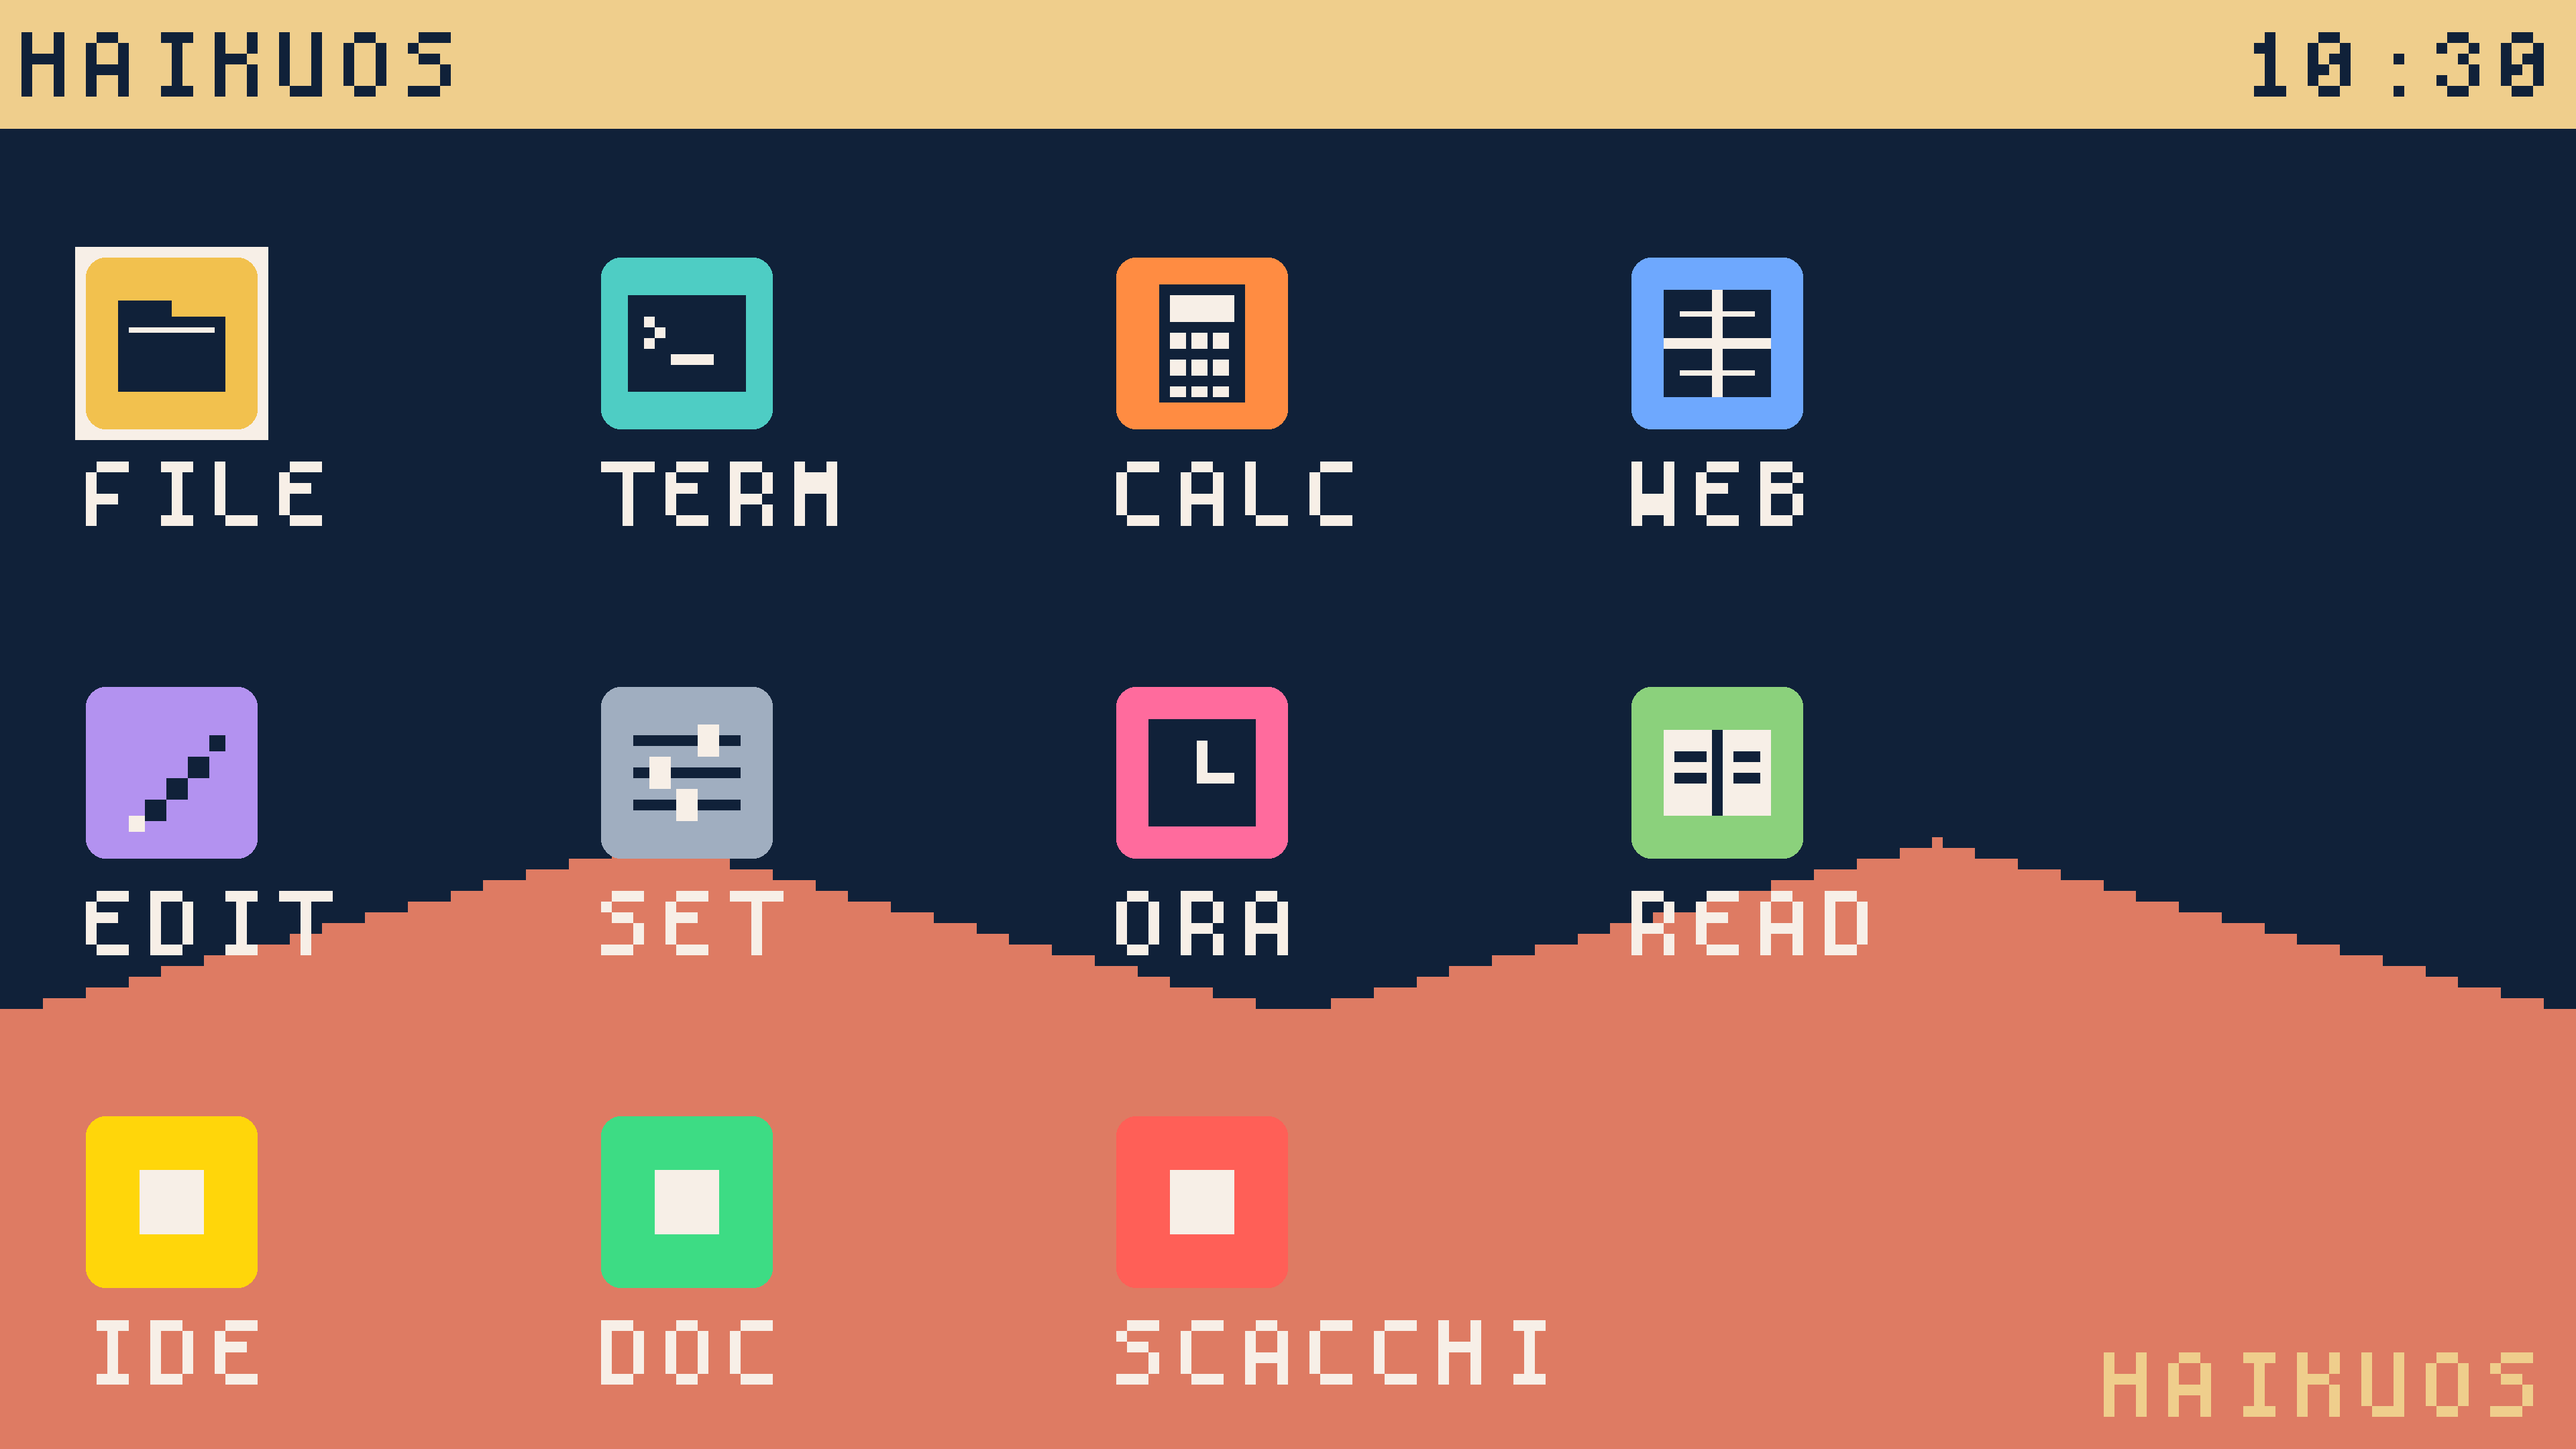
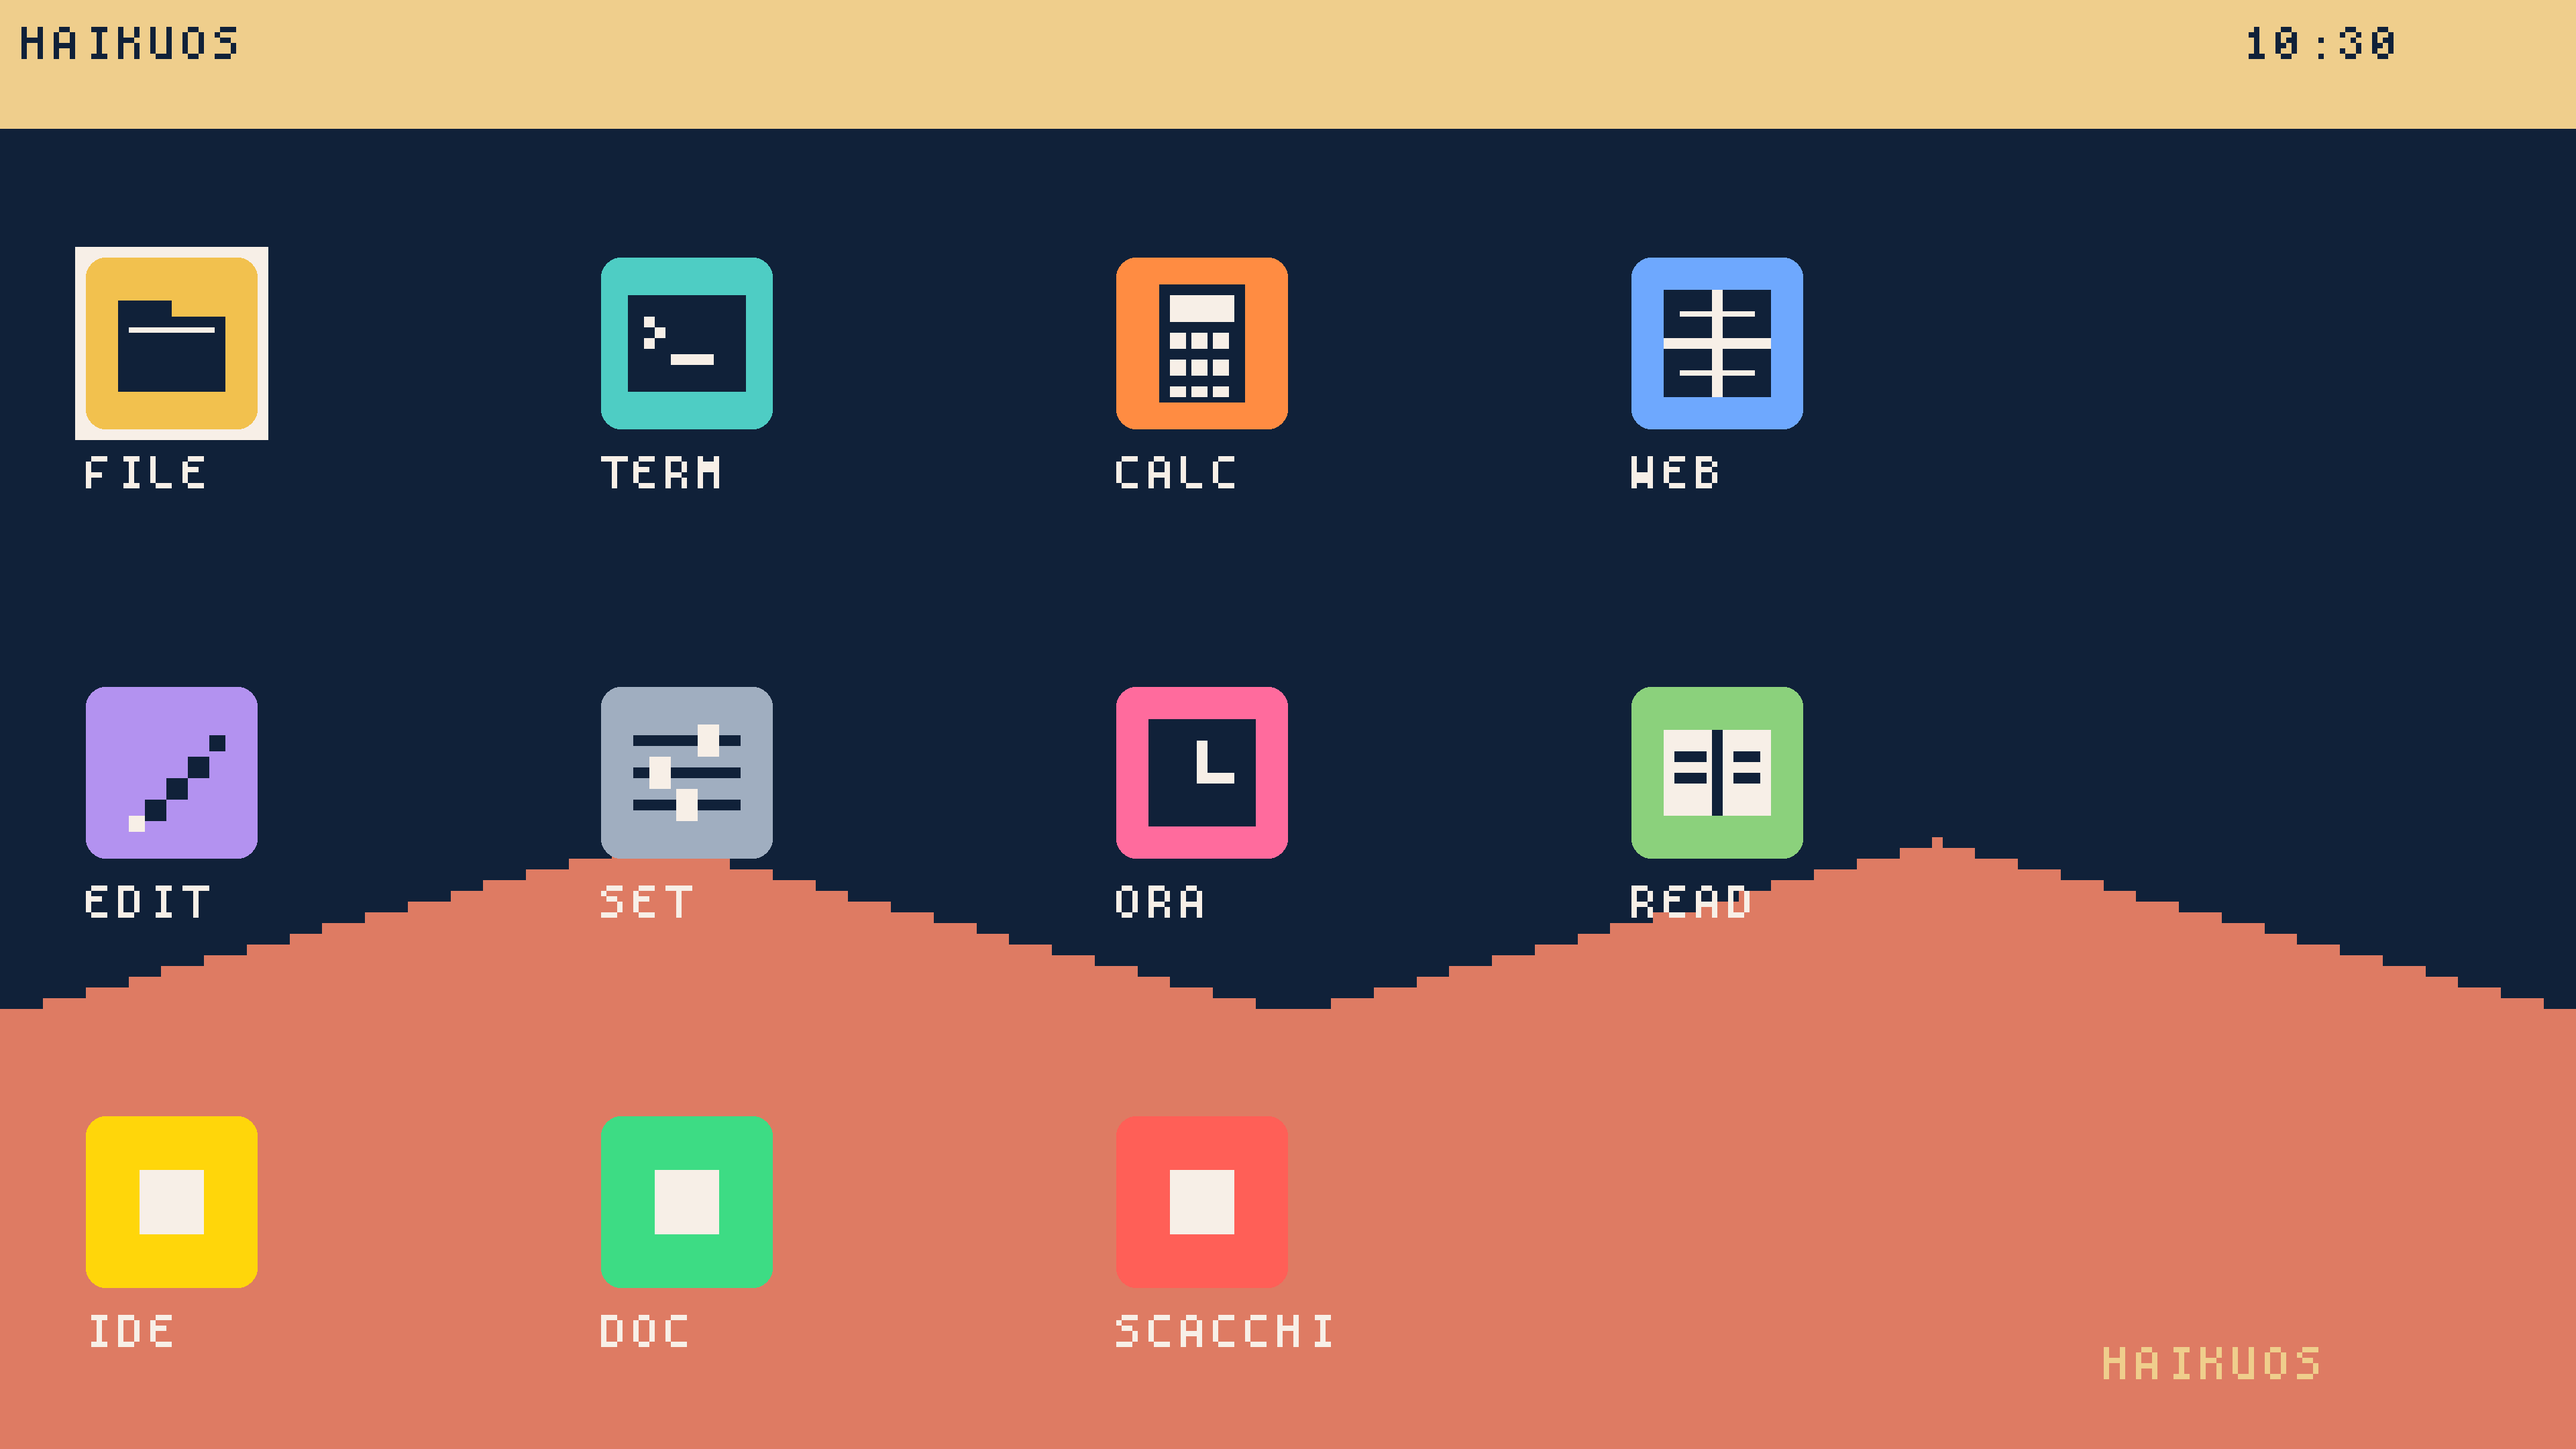
Animate desktop windows and launcher, vector text (#284)
- render: draw_motion with Motion { win_dy, sel }; draw stays still (GBA).
- desktop_vector: window open/close via Reactive, launcher selection glides.
- Vector canvas: text through vfont with real alpha blending.
- Screens: anim open/close/launch frames at 1920x1080 and 3840x2160.

Claude-Session: https://claude.ai/code/session_01AVhvvM8g9g7JB56RRU2TTt

diff --git a/gui/examples/desktop_vector.rs b/gui/examples/desktop_vector.rs
@@ -1,23 +1,30 @@
-//! Scrivania reale disegnata da `render::draw` su un `Canvas` a piena risoluzione.
-//! Stesso percorso dell'x86 (`Scaled` in x86/kernel/src/fb.rs): unità logiche 240×135,
-//! scala intera (16 a 3840×2160, 8 a 1920×1080). Plate delle icone via `rect_rounded`.
-//! Uso: cargo run --release --features wide-font --example desktop_vector -- 3840 2160 out.ppm [permille]
-//! Con `permille` (0..=1000) disegna un frame della transizione `Slide` tra scrivania e calcolatrice.
+//! Scrivania reale disegnata da `render::draw_motion` su un `Canvas` a piena risoluzione.
+//! Unità logiche 240×135, scala intera (16 a 3840×2160, 8 a 1920×1080). Testo vettoriale (`vfont`)
+//! con antialiasing reale. Animazioni (`anim`): apertura/chiusura finestra e selettore reattivo.
+//! Uso: cargo run --release --features wide-font --example desktop_vector -- W H out.ppm [modo] [icona]
+//!   modo: (assente) scrivania ferma | app=N finestra a schermo intero | open=MS | close=MS | launch=MS
+//!   open=MS   calcolatrice che sale a MS millisecondi; close=MS la fa scendere (chiusura)
+//!   launch=MS selettore che scorre dall'icona FILE alla CALC
+//!   icona: indice dell'icona da aprire prima del frame (screenshot delle app)
 //! Poi il PPM diventa PNG: `python3 -c "from PIL import Image; Image.open('out.ppm').save('out.png')"`.
 #![allow(dead_code)]
-#[path = "../../x86/kernel/src/font.rs"]
-mod font;
-
-use haiku_gui::anim::{Budget, Shifted, Slide, FRAME_US};
+use haiku_gui::anim::{Budget, Ease, Reactive, FRAME_US};
 use haiku_gui::icons;
 use haiku_gui::input::Key;
-use haiku_gui::layout::Rect;
-use haiku_gui::render::{draw, Canvas};
-use haiku_gui::{Icon, Shell, Tok};
+use haiku_gui::layout::{icon_cell, Rect};
+use haiku_gui::render::{draw, draw_motion, Canvas, Motion, STILL};
+use haiku_gui::{vfont, Icon, Shell, Tok};
 use std::io::Write;
 
 const LW: i32 = 240;
 const LH: i32 = 135;
+/// Spostamento iniziale della finestra in apertura/chiusura, px logici.
+const WIN_DY: i32 = 40;
+const OPEN_MS: u32 = 250;
+const CLOSE_MS: u32 = 200;
+const GLIDE_MS: u32 = 200;
+/// Dimensione del testo vettoriale in px logici: avanzata di 6 px per carattere, come il font di sistema.
+const TEXT_EM: i32 = 8;
 
 static ICONS: [Icon; 11] = [
     Icon { label: "FILE", app: 1, title: "FILE", w: 120, h: 80 },
@@ -50,6 +57,31 @@ impl Vector {
                 self.buf[row + x as usize] = c;
             }
         }
+    }
+
+    /// Mescola il colore `c` sul pixel fisico (x, y) con copertura `a` (0..=255).
+    fn mix(&mut self, x: i32, y: i32, a: u8, c: u32) {
+        if x < 0 || y < 0 || x >= self.pw || y >= self.ph {
+            return;
+        }
+        let p = &mut self.buf[(y * self.pw + x) as usize];
+        let (old, k) = (*p, a as u32);
+        let ch = |sh: u32| {
+            let (bg, fg) = ((old >> sh) & 255, (c >> sh) & 255);
+            (bg * (255 - k) + fg * k + 127) / 255
+        };
+        *p = (ch(16) << 16) | (ch(8) << 8) | ch(0);
+    }
+}
+
+/// Vista in pixel fisici per `vfont`: `blend` riceve coordinate fisiche e la copertura reale.
+struct Px<'a>(&'a mut Vector);
+
+impl Canvas for Px<'_> {
+    fn fill(&mut self, _: Rect, _: Tok) {}
+    fn text(&mut self, _: i32, _: i32, _: &str, _: Tok) {}
+    fn blend(&mut self, x: i32, y: i32, a: u8, t: Tok) {
+        self.0.mix(x, y, a, t.rgb());
     }
 }
 
@@ -105,20 +137,14 @@ impl Canvas for Vector {
         }
     }
 
-    /// Testo: font 5×8 (x86), ogni punto logico diventa un quadrato `s`×`s`.
+    /// Testo: `vfont` con antialiasing, in pixel fisici. Il font di sistema resta quello del GBA.
     fn text(&mut self, x: i32, y: i32, text: &str, t: Tok) {
-        let (s, c) = (self.s, t.rgb());
-        for (i, &ch) in text.as_bytes().iter().enumerate() {
-            for (row, bits) in font::glyph(ch).iter().enumerate() {
-                for col in 0..font::GLYPH_W {
-                    if bits & (1 << (font::GLYPH_W - 1 - col)) != 0 {
-                        let px = x + (i * font::ADVANCE + col) as i32;
-                        let py = y + row as i32;
-                        self.span(px * s, py * s, px * s + s, py * s + s, c);
-                    }
-                }
-            }
-        }
+        self.vtext(x, y, TEXT_EM, text, t);
+    }
+
+    fn vtext(&mut self, x: i32, y: i32, size: i32, text: &str, t: Tok) -> i32 {
+        let k = self.s;
+        vfont::draw_text(&mut Px(self), x * k, y * k, size * k, text, t) / k
     }
 }
 
@@ -153,25 +179,51 @@ fn main() {
         println!("app {n} -> {out}");
         return;
     }
-    match a.get(4).and_then(|p| p.parse::<u32>().ok()) {
-        Some(p) => {
-            // Transizione: scrivania (vecchia) scivola via, calcolatrice (nuova) entra da destra.
-            let mut next = Shell::new(&ICONS, LW, LH);
-            next.set_clock(10, 30);
-            next.wm.open(3, "CALCOLATRICE", 80, 60, LW, LH);
-            let (ox, nx) = Slide::start(LW, 0, 1000).offsets(p);
-            // Budget di frame: 30 render misurati, µs per frame (target 60 Hz).
-            let mut bud = Budget::new(FRAME_US);
-            for _ in 0..30 {
-                let t0 = std::time::Instant::now();
-                draw(&mut Shifted { inner: &mut v, dx: ox, dy: 0 }, &shell);
-                draw(&mut Shifted { inner: &mut v, dx: nx, dy: 0 }, &next);
-                bud.record(t0.elapsed().as_micros() as u32);
+
+    // Movimento: "open=MS", "close=MS" o "launch=MS", a MS millisecondi dall'inizio.
+    let arg = a.get(4).map(String::as_str).unwrap_or("");
+    let (mode, ms) = match arg.split_once('=') {
+        Some((m, t)) => (m, t.parse::<u32>().ok()),
+        None => ("", None),
+    };
+    let mut dy = [0i32];
+    let mut sel = None;
+    if let Some(ms) = ms {
+        match mode {
+            "close" => {
+                shell.wm.open(3, "CALCOLATRICE", 80, 60, LW, LH);
+                let mut r = Reactive::new(0);
+                r.set(WIN_DY, 0, CLOSE_MS, Ease::InQuad);
+                dy[0] = r.get(ms);
             }
-            println!("frame: media {} µs, max {} µs, oltre 16667 µs: {}/{}", bud.avg_us(), bud.max_us, bud.over, bud.frames);
+            "launch" => {
+                // Il selettore scivola dall'icona FILE (0) alla CALC (2), senza salti.
+                shell.sel = 2;
+                let (from, to) = (icon_cell(0), icon_cell(2));
+                let (mut x, mut y) = (Reactive::new(from.x), Reactive::new(from.y));
+                x.set(to.x, 0, GLIDE_MS, Ease::OutCubic);
+                y.set(to.y, 0, GLIDE_MS, Ease::OutCubic);
+                sel = Some(Rect::new(x.get(ms), y.get(ms), to.w, to.h));
+            }
+            "open" => {
+                shell.wm.open(3, "CALCOLATRICE", 80, 60, LW, LH);
+                let mut r = Reactive::new(WIN_DY);
+                r.set(0, 0, OPEN_MS, Ease::OutCubic);
+                dy[0] = r.get(ms);
+            }
+            _ => {}
         }
-        None => draw(&mut v, &shell),
     }
+    let m = if ms.is_some() { Motion { win_dy: &dy, sel } } else { STILL };
+
+    // Budget di frame: 30 render misurati, µs per frame (target 60 Hz).
+    let mut bud = Budget::new(FRAME_US);
+    for _ in 0..30 {
+        let t0 = std::time::Instant::now();
+        draw_motion(&mut v, &shell, &m);
+        bud.record(t0.elapsed().as_micros() as u32);
+    }
+    println!("frame: media {} µs, max {} µs, oltre 16667 µs: {}/{}", bud.avg_us(), bud.max_us, bud.over, bud.frames);
 
     let mut f = std::io::BufWriter::new(std::fs::File::create(out).expect("file"));
     write!(f, "P6\n{w} {h}\n255\n").unwrap();

diff --git a/gui/src/render.rs b/gui/src/render.rs
@@ -431,7 +431,23 @@ fn corners<C: Canvas>(c: &mut C, r: Rect) {
     }
 }
 
+/// Movimento di un frame: `win_dy[i]` sposta in basso la finestra `i` (px logici);
+/// `sel` è il selettore in volo fra due icone (scorrimento reattivo).
+#[derive(Clone, Copy)]
+pub struct Motion<'a> {
+    pub win_dy: &'a [i32],
+    pub sel: Option<Rect>,
+}
+
+/// Nessun movimento: la scrivania ferma (GBA e test).
+pub const STILL: Motion<'static> = Motion { win_dy: &[], sel: None };
+
 pub fn draw<C: Canvas>(c: &mut C, s: &Shell) {
+    draw_motion(c, s, &STILL);
+}
+
+/// Come `draw`, con finestre e selettore spostati da `m` (apertura, chiusura, scorrimento).
+pub fn draw_motion<C: Canvas>(c: &mut C, s: &Shell, m: &Motion<'_>) {
     c.fill(Rect::new(0, 0, s.w, s.h), T0);
     hills(c, s.w, s.h);
     // Sfondo: marchio "HAIKUOS" in basso a destra, in T3 sopra le colline.
@@ -457,6 +473,10 @@ pub fn draw<C: Canvas>(c: &mut C, s: &Shell) {
         }
     }
     c.text(clock_x(s.w), ty, core::str::from_utf8(&s.clock).unwrap_or(""), T0);
+    // Selettore in volo: sotto le icone, così il contorno resta leggibile durante lo scorrimento.
+    if let (Some(r), true) = (m.sel, c.rich()) {
+        c.fill(r.inset(-1), T1);
+    }
 
     // Icone: quadrato T2, selezionata T1, aperta con sottolineatura T2.
     let (start, count) = s.visible();
@@ -465,7 +485,7 @@ pub fn draw<C: Canvas>(c: &mut C, s: &Shell) {
         let ic = &s.icons[i];
         let cell = icon_cell(k);
         if c.rich() {
-            if i == s.sel {
+            if i == s.sel && m.sel.is_none() {
                 c.fill(cell.inset(-1), T1);
             }
             c.icon(cell, ic.label, ic.app);
@@ -492,7 +512,8 @@ pub fn draw<C: Canvas>(c: &mut C, s: &Shell) {
         if w.min {
             continue;
         }
-        let f = w.frame;
+        let dy = m.win_dy.get(i).copied().unwrap_or(0);
+        let f = Rect::new(w.frame.x, w.frame.y + dy, w.frame.w, w.frame.h);
         shadow(c, f);
         c.fill(f, T3);
         let tb = title_bar(f);

diff --git a/docs/vector-render-api.md b/docs/vector-render-api.md
@@ -57,7 +57,7 @@ fn draw_score<C: Canvas>(c: &mut C, r: Rect, score: u32, t: Tok) {
 cd gui && cargo run --release --features wide-font --example desktop_vector -- 3840 2160 out.ppm
 ```
 
-Output committati: `design/screens/desktop_vector_*.png`. Limiti: il testo è il font 5×8 scalato a blocchi, e lo sfondo usa ancora le colline (`hills`), non il wallpaper bitmap di `design/wallpapers/`.
+Output committati: `design/screens/desktop_vector_*.png`. Limiti: i contorni del testo sono ancora il 5×8 vettorizzato, e lo sfondo usa ancora le colline (`hills`), non il wallpaper bitmap di `design/wallpapers/`.
 
 ## 7. Font vettoriale con antialiasing
 
@@ -96,4 +96,10 @@ Tutto a interi (ms, permille, µs), no_std, senza allocazione nel frame.
 | `Shifted<C>` | vista di un `Canvas` spostata di `(dx, dy)`: si disegna una schermata come sempre |
 | `Budget` | registra µs per frame, conta gli sforamenti di `FRAME_US` (16 667 µs = 60 Hz) |
 
-Demo: `cargo run --release --features wide-font --example desktop_vector -- 1920 1080 out.ppm 500` disegna il frame a metà transizione e stampa il budget. Output: `design/screens/anim_transition_1920x1080.png`.
+Scrivania animata (`render::draw_motion` con `Motion { win_dy, sel }`; `draw` resta fermo per GBA):
+
+```sh
+cd gui && cargo run --release --features wide-font --example desktop_vector -- 1920 1080 out.ppm 120 open
+```
+
+Modi: `open=MS` / `close=MS` (calcolatrice che sale/scende, `Reactive` 250/200 ms), `launch=MS` (selettore che scorre da FILE a CALC, 200 ms). Output: `design/screens/anim_{open,close,launch}_1920x1080.png`, `anim_open_3840x2160.png`. Budget misurato su host (release, x86) dopo il merge con `main`: 1920×1080 media 6,3 ms, massimo 10,8 ms; 3840×2160 media 19 ms, massimo 37 ms (27 frame su 30 sopra 16,7 ms). Da ottimizzare: le app vettoriali di `main` disegnano più testo per frame. Il testo passa da `vtext`, con copertura reale (`Vector::mix`); i contorni sono ancora quelli 5×8 del font di sistema.
